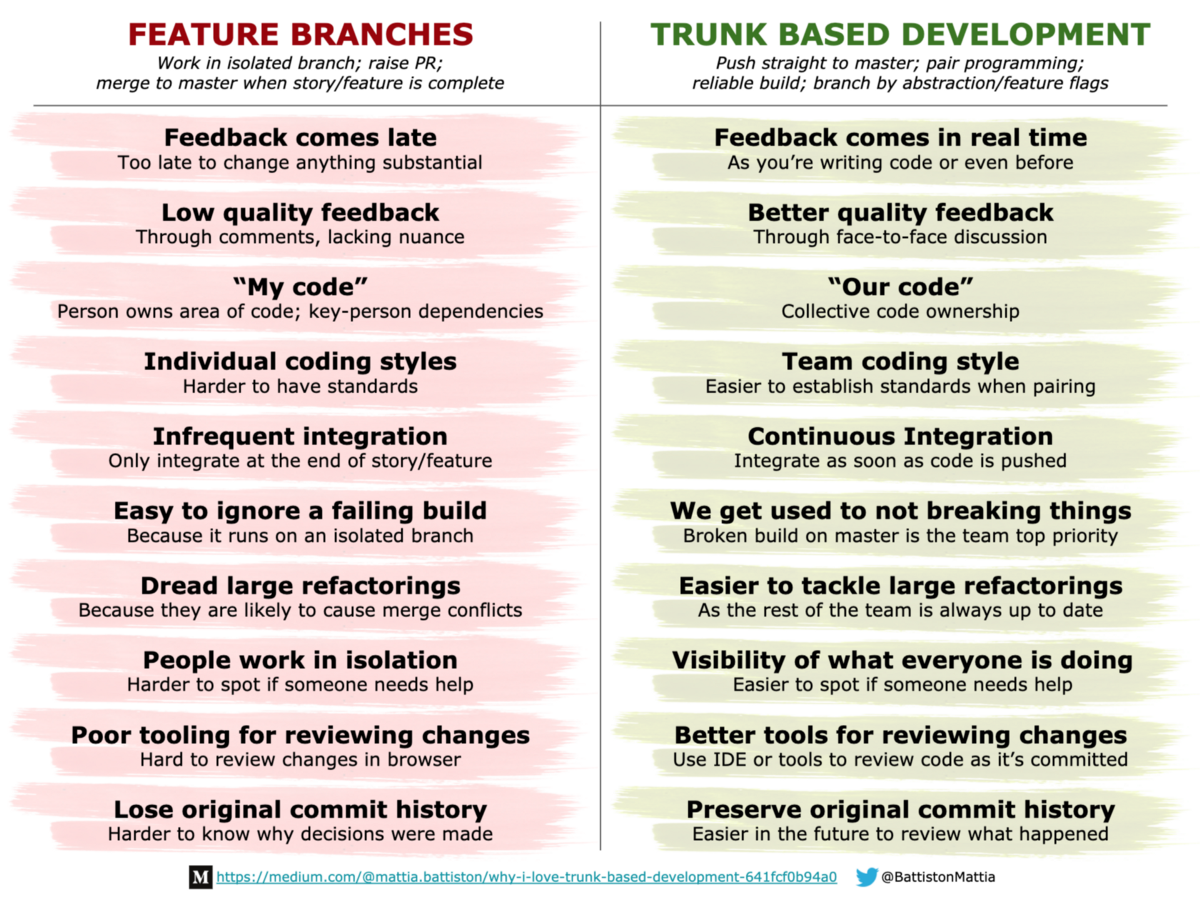
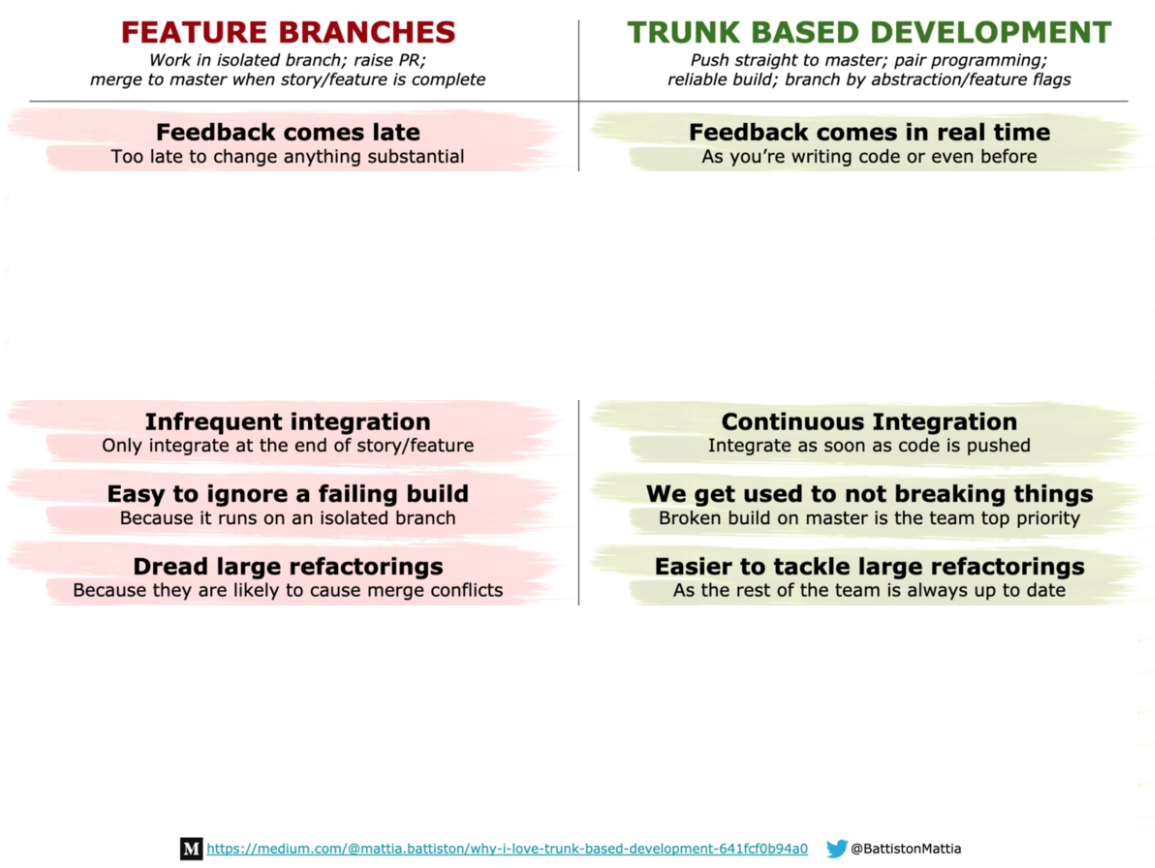
fix: updated

diff --git a/index.html b/index.html
@@ -36,15 +36,21 @@
           <script type="text/template">
             - start with why
               - high performing teams
-              - 2 examples of effectiveness (vs efficiency)
+              - 2 examples of effectiveness
 
             - what
+              - continuous integration
               - TBD explained
               - feature branching explained
               - why (not)
 
             - how
-              - practical example
+              - TBD mindset
+              - practical patterns
+              - releasing (without and with TBD)
+              - pitfalls
+
+            - questions/discuss
           </script>
         </section>
         <section data-markdown>
@@ -61,22 +67,22 @@
 
         <section data-markdown>
           <script type="text/template">
-            Increasing effectiveness - the importance of:
-              - feedback
-              - managing queues
-          </script>
-        </section>
-
-        <section data-markdown>
-          <script type="text/template">
             ## Two digit lottery
             _A winning combination pays off $100._
             ### We can:
-            buy a two-digit lottery ticket for $1.
+            (A) buy a two-digit lottery ticket for $1.
 
             *OR*
 
-            buy the 1st digit for 50 cents with the option to buy another digit of 50 cents after the first digit is revealed.
+            (B) buy 1 digit for 0.5$ _with the option to buy another digit of 50 cents - after the first digit is revealed._
+          </script>
+        </section>
+        <section data-markdown>
+          <script type="text/template">
+            ## Two digit lottery
+            - ( A ) -> good luck...
+            - ( B ) -> first digit is "4"
+              - do you invest another 50c for a second number?
           </script>
         </section>
         <section data-markdown>
@@ -88,26 +94,55 @@
           <script type="text/template">
             ## mailing cards
             - write address
-            - fold newsletter
-            - seal
+            - fold card
+            - put the card in the envelope, seal it
             - put on the stamp
           </script>
         </section>
         <section data-markdown>
           <script type="text/template">
-            The one envelope at a time approach is a faster way of getting the job done even though it seems inefficient.
-            - One piece flow
-              - (forced to) fix mistakes immediately - eg improvement
-              - earlier discovery = compounding effect (finding bugs later = more expensive)
-              - more iterations results in (more) continuous improvement of the process
+            ## mailing cards
+            - ( A ) - BULK: write all addresses, fold all cards, ...
+            - ( B ) - ONE BY ONE - one card at a time; write address, fold card, ...
+          </script>
+        </section>
+        <section data-markdown>
+          <script type="text/template">
+            (B) The one envelope at a time approach is a faster way of getting the job done even though it seems inefficient.
+          </script>
+        </section>
+        <section data-markdown>
+          <script type="text/template">
+            - Lean principle: One piece flow
+              - more iterations = (more) continuous improvement of the process
+              - (forced to) fix mistakes immediately
+              - earlier discovery of defects= compounding effect (finding bugs later = more expensive)
           </script>
         </section>
         <section data-markdown>
           <script type="text/template">
             Cost of change
+
             !["Cost of change"](images/cost-of-change.jpg)
           </script>
         </section>
+        <section data-markdown>
+          <script type="text/template">
+            Increasing effectiveness - the importance of:
+              - feedback - is my code safe to release TODAY?
+              - managing queues - DO NOT BATCH, small and incremental instead
+          </script>
+        </section>
+        <section data-markdown>
+          <script type="text/template">
+            - what
+              - continuous integration
+              - TBD explained
+              - feature branching explained
+              - why (not)
+          </script>
+        </section>
+
         <section data-markdown>
           <script type="text/template">
             ## Continuous integration
@@ -124,6 +159,7 @@
             !["CI on a dollar a day"](images/CI_dollar_day.png)
           </script>
         </section>
+
         <section>
           Trunk based development
           <blockquote>
@@ -139,47 +175,58 @@
         <section>
           Trunk based development
           <blockquote>
-            Trunk based development is about getting rid of the mindset that
-            only "finished" and "fully working" code should be committed into
-            master. This is never the case.
-          </blockquote>
-        </section>
-        <section>
-          <blockquote>
-            The mindset that this model offers instead is that each commit must
-            NOT be a breaking change. The key is to be making small atomic
-            changes, which don't break CI and your functionality at runtime.
-          </blockquote>
-        </section>
-        <section>
-          Trunk based development
-          <blockquote>
-            Trunk based development doesn't have to mean everybody pushing to
-            master without any code reviews. What it means is that instead of
-            making multiple small commits into your feature branch, you make
-            pull requests for those same commits to master instead.
-          </blockquote>
-        </section>
-        <section>
-          Trunk based development
-          <blockquote>
-            This requires to break down your work into smaller increments, each
-            of which is slowly working towards a completed feature.
+            <p>
+              <small
+                >Trunk based development is about getting rid of the mindset
+                that only "finished" and "fully working" code should be
+                committed into master. This is never the case.
+              </small>
+            </p>
+            <p>
+              <small
+                >The mindset that this model offers instead is that each commit
+                must NOT be a breaking change. The key is to be making small
+                atomic changes, which don't break CI and your functionality at
+                runtime.
+              </small>
+            </p>
+            <p>
+              <small
+                >Trunk based development doesn't have to mean everybody pushing
+                to master without any code reviews. What it means is that
+                instead of making multiple small commits into your feature
+                branch, you make pull requests for those same commits to master
+                instead.
+              </small>
+            </p>
+            <p>
+              <small
+                >This requires to break down your work into smaller increments,
+                each of which is slowly working towards a completed
+                feature.</small
+              >
+            </p>
           </blockquote>
         </section>
 
         <section data-markdown>
           <script type="text/template">
             !["feature branching"](images/feature-branching.png)
+          </script>
+        </section>
+
+        <section data-markdown>
+          <script type="text/template">
             ![alt text](images/stateofdevops.png "Title")
-            -> The idea that developers should work in small batches off master or trunk rather than on long-lived feature branches is still one of the most controversial ideas in the Agile canon, despite the fact it is the norm in high-performin roganizations such as Google. -- 2016 State of DevOps Reports
+
+            -> continuous isolation
           </script>
         </section>
 
         <section>
           <blockquote>
             "Feature Branching is a poor man’s modular architecture, instead of
-            building systems with the ability to easy swap in and out features
+            building systems with the ability to easily swap in and out features
             at runtime/deploytime they couple themselves to the source control
             providing this mechanism through manual merging."
           </blockquote>
@@ -194,15 +241,27 @@
 
         <section data-markdown>
           <script type="text/template">
-            CRUCIAL:
+            ## how
+              - TBD mindset
+              - incremental development
+              - practical patterns
+              - releasing (without and with TBD)
+              - pitfalls
+          </script>
+        </section>
+        <section data-markdown>
+          <script type="text/template">
+            ## TBD mindset:
             - practice incremental software development
-            - invest heavily in automated tests
-            - fast builds!
+            - never break the build - _stop the line; andon cord_
+            - escaped bug? _write an automated test!_
+            - fast builds: _make and keep them fast!_
           </script>
         </section>
 
         <section data-markdown>
           <script type="text/template">
+            ## Incremental development
             "Deployed": technical - introduced in Production.
             “Released”: business - available to an end-user.
 
@@ -211,9 +270,15 @@
             _Too often treated as ===_
           </script>
         </section>
-
         <section data-markdown>
           <script type="text/template">
+            ## practical patterns
+          </script>
+        </section>
+        <section data-markdown>
+          <script type="text/template">
+            Feature toggles
+
             !["feature toggles"](images/feature_toggle.png)
             -  decouple deploy from release
             - "dark launch" (customers or developers)
@@ -225,7 +290,13 @@
 
         <section data-markdown>
           <script type="text/template">
-            strangler pattern
+            Refactoring straight on trunk
+          </script>
+        </section>
+
+        <section data-markdown>
+          <script type="text/template">
+            branch by abstraction (micro)
             !["strangler pattern"](images/strangler-pattern.jpeg)
           </script>
         </section>
@@ -238,6 +309,72 @@
             - remove interface (optional)
           </script>
         </section>
+        <section data-markdown>
+          <script type="text/template">
+            the strangler pattern (macro)
+
+            !["strangler pattern"](images/strangler-pattern-fig.jpg)
+          </script>
+        </section>
+
+        <section data-markdown>
+          <script type="text/template">
+            ## releasing
+
+            (without and with TBD)
+          </script>
+        </section>
+        <section data-markdown>
+          <script type="text/template">
+            !["TBD releases"](images/unmerge.jpg)
+            - change of sequence? the cost of unmerge
+            - constant merging (conflicts)
+            - alternative worse: infrequent, huge merges
+          </script>
+        </section>
+
+        <section data-markdown>
+          <script type="text/template">
+            !["strangler pattern"](images/release1.png)
+            !["strangler pattern"](images/release3.png)
+          </script>
+        </section>
+
+        <section data-markdown>
+          <script type="text/template">
+            !["TBD releases"](images/releases.png)
+
+            hardening releases
+          </script>
+        </section>
+
+        <section data-markdown>
+          <script type="text/template">
+            !["strangler pattern"](images/release2.png)
+            !["strangler pattern"](images/release3.png)
+          </script>
+        </section>
+
+        <section data-markdown>
+          <script type="text/template">
+            ## doing it wrong
+            - Cherry-pick of bug fixes from release branches to the trunk
+            - Merging rather than cherry-pick to/from a release branch
+            - Duration of ‘short-lived’ feature branches
+            - Numbers of developers on ‘short-lived’ feature branches
+            - Keeping a single release branch
+            - Merge from one release branch to another release branch
+            - Merge everything back from a release branch at the end of the release branch
+          </script>
+        </section>
+
+        <section data-markdown>
+          <script type="text/template">
+            Questions/discussion
+
+            - https://app.circleci.com/insights/github/Lansweeper
+          </script>
+        </section>
 
         <section data-markdown>
           <script type="text/template">
@@ -245,6 +382,7 @@
             - https://trunkbaseddevelopment.com/
             - Feature branching is evil https://www.youtube.com/watch?v=h4DM-Wa0aDQ
             - http://www.startuplessonslearned.com/2011/09/power-of-small-batches.html
+            - https://paulhammant.com/2013/03/19/cost-of-unmerge/
           </script>
         </section>
       </div>
